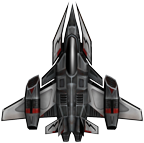
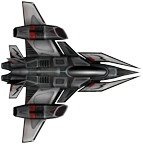
shifted the game sideways

diff --git a/build/build.js b/build/build.js
@@ -6,14 +6,14 @@ var Asteroid = (function () {
         this.reset(p);
     }
     Asteroid.prototype.move = function (p) {
-        this.yPos = this.yPos + this.speed;
-        if (this.yPos > this.windowHeight) {
+        this.xPos = this.xPos - this.speed;
+        if (this.xPos < 0) {
             this.reset(p);
         }
     };
     Asteroid.prototype.reset = function (p) {
-        this.xPos = p.random(0, this.windowWidth);
-        this.yPos = p.random(-200, -100);
+        this.xPos = p.random(this.windowWidth + 30, this.windowWidth + 100);
+        this.yPos = p.random(0, this.windowHeight);
         this.size = p.random(30, 60);
         this.speed = p.random(1, 5);
     };
@@ -28,7 +28,7 @@ var LEFT_ARROW = 37;
 var DOWN_ARROW = 40;
 var RIGHT_ARROW = 39;
 var ASTEROIDS_MAX = 30;
-var STARS_MAX = 200;
+var STARS_MAX = 20;
 var BACKGROUND = 30;
 var MoveDirections;
 (function (MoveDirections) {
@@ -52,10 +52,10 @@ var ASTEROID_TYPES = [
 ];
 var Missle = (function () {
     function Missle(ship) {
-        this.width = 3;
-        this.height = 20;
-        this.xPos = ship.xPos + (ship.width / 2);
-        this.yPos = ship.yPos;
+        this.width = 20;
+        this.height = 2;
+        this.xPos = ship.xPos + ship.width;
+        this.yPos = ship.yPos + (ship.width / 2);
     }
     Missle.prototype.draw = function (p) {
         p.push();
@@ -64,13 +64,9 @@ var Missle = (function () {
         p.pop();
     };
     Missle.prototype.move = function () {
-        this.yPos = this.yPos - 20;
+        this.xPos = this.xPos + 20;
     };
-    Missle.prototype.collidesWith = function (asteroid) {
-        var aYMax = asteroid.yPos;
-        var aYMin = asteroid.yPos - asteroid.size;
-        var aXMin = asteroid.xPos;
-        var aXMax = asteroid.xPos + asteroid.size;
+    Missle.prototype.collidesWith = function (asteroid, p) {
         return false;
     };
     return Missle;
@@ -202,12 +198,12 @@ var sketch = function (p) {
         handleKeyboardInput();
     };
     function renderAll() {
+        handleStars();
         ship.draw(p, shipImg);
         handleCollisions();
         showHealth();
         handleMissles();
         handleAsteroids();
-        handleStars();
     }
     function handleMissles() {
         missiles = missiles.filter(function (m) { return m.yPos <= p.windowHeight; });
@@ -219,7 +215,7 @@ var sketch = function (p) {
     function handleCollisions() {
         missiles.forEach(function (missle) {
             asteroids.forEach(function (asteroid) {
-                if (missle.collidesWith(asteroid)) {
+                if (missle.collidesWith(asteroid, p)) {
                     asteroid.reset(p);
                 }
             });
@@ -274,23 +270,24 @@ var sketch = function (p) {
 var sketchP = new p5(sketch);
 var Star = (function () {
     function Star(p) {
-        this.width = p.random(1, 3);
-        this.height = p.random(15, 20);
+        this.width = p.random(15, 60);
+        this.height = p.random(1, 2);
         this.windowHeight = p.windowHeight;
-        this.xPos = p.random(0, p.windowWidth);
-        this.yPos = p.random(-100, p.windowHeight);
-        this.speed = p.random(0, 8);
+        this.windowWidth = p.windowWidth;
+        this.xPos = p.random(0, this.windowWidth);
+        this.yPos = p.random(-100, this.windowHeight);
+        this.speed = p.random(10, 30);
     }
     Star.prototype.draw = function (p) {
         p.push();
-        p.fill(42);
+        p.fill(80);
         p.ellipse(this.xPos, this.yPos, this.width, this.height);
         p.pop();
     };
     Star.prototype.move = function () {
-        this.yPos = this.yPos + this.speed;
-        if (this.yPos > this.windowHeight) {
-            this.yPos = 0;
+        this.xPos = this.xPos - this.speed;
+        if (this.xPos < 0) {
+            this.xPos = this.windowWidth;
         }
     };
     return Star;

diff --git a/sketch/star.ts b/sketch/star.ts
@@ -5,24 +5,26 @@ class Star {
     public height: number;
     public speed: number;
     public windowHeight: number;
+    public windowWidth: number;
     constructor(p: p5) {
-        this.width = p.random(1, 3);
-        this.height = p.random(15, 20);
+        this.width = p.random(15, 60);
+        this.height = p.random(1, 2);
         this.windowHeight = p.windowHeight;
-        this.xPos = p.random(0, p.windowWidth);
-        this.yPos = p.random(-100, p.windowHeight);
-        this.speed = p.random(0, 8);
+        this.windowWidth = p.windowWidth;
+        this.xPos = p.random(0, this.windowWidth);
+        this.yPos = p.random(-100, this.windowHeight);
+        this.speed = p.random(10, 30);
     }
     public draw(p: p5) {
         p.push();
-        p.fill(42);
+        p.fill(80);
         p.ellipse(this.xPos, this.yPos, this.width, this.height);
         p.pop();
     }
     public move() {
-        this.yPos = this.yPos + this.speed;
-        if (this.yPos > this.windowHeight) {
-            this.yPos = 0;
+        this.xPos = this.xPos - this.speed;
+        if (this.xPos < 0) {
+            this.xPos = this.windowWidth;
         }
     }
 }

diff --git a/sketch/missle.ts b/sketch/missle.ts
@@ -1,31 +1,25 @@
 class Missle {
     public xPos: number;
     public yPos: number;
-    public width = 3;
-    public height = 20;
-
+    public width = 20;
+    public height = 2;
     constructor(ship: Ship) {
-        this.xPos = ship.xPos + (ship.width / 2)
-        this.yPos = ship.yPos;
+        this.xPos = ship.xPos + ship.width;
+        this.yPos = ship.yPos + (ship.width / 2);
     }
-
     public draw(p: p5): void {
         p.push();
         p.fill(255,69,0);
         p.ellipse(this.xPos, this.yPos, this.width, this.height);
         p.pop();
     }
-
     public move(): void {
-        this.yPos = this.yPos - 20;
+        this.xPos = this.xPos + 20;
     }
+    public collidesWith(asteroid: Asteroid, p: p5): boolean {
 
-    public collidesWith(asteroid: Asteroid): boolean {
-        const aYMax = asteroid.yPos;
-        const aYMin = asteroid.yPos - asteroid.size;
-        const aXMin = asteroid.xPos;
-        const aXMax = asteroid.xPos + asteroid.size;
+        return false;
 
-        return false; 
+        
     }
 }

diff --git a/sketch/sketch.ts b/sketch/sketch.ts
@@ -34,12 +34,12 @@ var sketch = (p: p5) => {
     }
 
     function renderAll() {
+        handleStars();
         ship.draw(p, shipImg);
         handleCollisions();
         showHealth();
         handleMissles();
         handleAsteroids();
-        handleStars();
     }
 
     function handleMissles() {
@@ -54,7 +54,7 @@ var sketch = (p: p5) => {
     function handleCollisions() {
         missiles.forEach(missle => {
             asteroids.forEach(asteroid => {
-                if (missle.collidesWith(asteroid)) {
+                if (missle.collidesWith(asteroid, p)) {
                     asteroid.reset(p);
                 }
             });

diff --git a/sketch/asteroid.ts b/sketch/asteroid.ts
@@ -13,15 +13,15 @@ class Asteroid {
     }
 
     public move(p: p5) {
-        this.yPos = this.yPos + this.speed;
-        if (this.yPos > this.windowHeight) {
+        this.xPos = this.xPos - this.speed;
+        if (this.xPos < 0) {
             this.reset(p);
         }
     }
 
     public reset(p: p5) {
-        this.xPos = p.random(0, this.windowWidth);
-        this.yPos = p.random(-200, -100);
+        this.xPos = p.random(this.windowWidth + 30, this.windowWidth + 100);
+        this.yPos = p.random(0, this.windowHeight);
         this.size = p.random(30, 60);
         this.speed = p.random(1, 5);
     }

diff --git a/sketch/ship.ts b/sketch/ship.ts
@@ -20,17 +20,14 @@ class Ship {
         this.xSpeed = 5;
         this.ySpeed = 5;
     }
-
     public draw(p: p5, image: p5.Image) {
 
         this.shiftPosition();
         this.render(p, image);
     }
-
     private render(p: p5, image: p5.Image) {
         p.image(image, this.xPos, this.yPos, this.width, this.height);
     }
-
     public get top(): number {
         return this.yPos;
     }
@@ -83,7 +80,6 @@ class Ship {
             }
         });
     }
-
     private addDirectionHistory(direction: number) {
         if (this.lastDirections.length > 2) {
             this.lastDirections.shift();

diff --git a/sketch/constants.ts b/sketch/constants.ts
@@ -6,7 +6,7 @@ const LEFT_ARROW = 37;
 const DOWN_ARROW = 40;
 const RIGHT_ARROW = 39;
 const ASTEROIDS_MAX = 30;
-const STARS_MAX = 200;
+const STARS_MAX = 20;
 const BACKGROUND = 30;
 enum MoveDirections {
     Up = 1,
